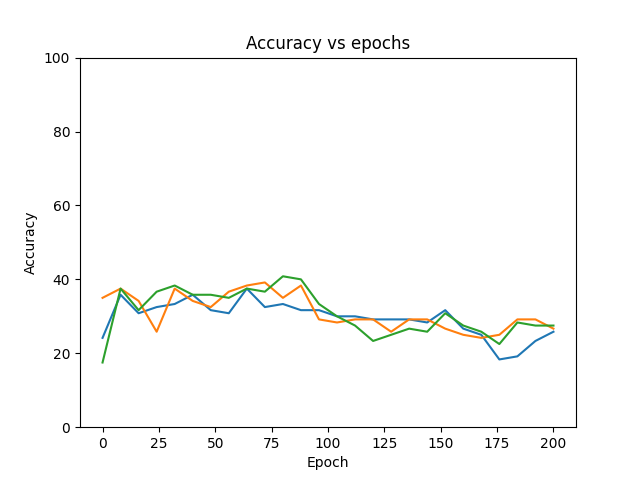
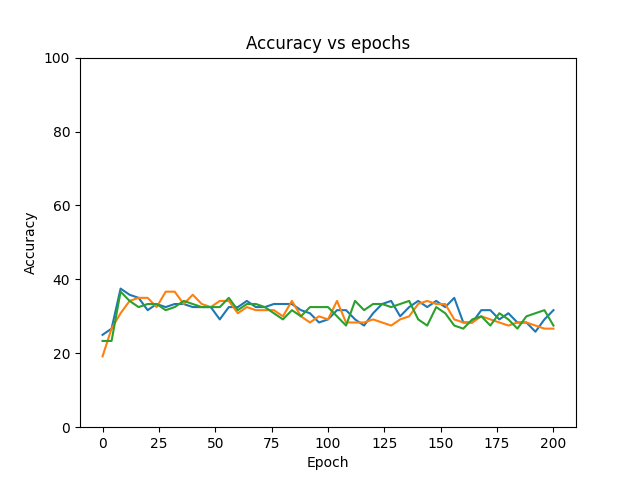
Reseed between experiments

Changed region(s): [[0.1562, 0.5625, 0.875, 0.75]]

diff --git a/main.py b/main.py
@@ -17,6 +17,7 @@ import numpy as np
 from tqdm import tqdm
 from torchaudio.transforms import MFCC
 
+
 class Experiment:
     def __init__(self, args: Namespace):
         self.args = args
@@ -47,10 +48,9 @@ class Experiment:
         self.train_dataset = KWSDataset(True, transform=transform)
         test_dataset = KWSDataset(False, transform=transform)
         self.loss_fn = torch.nn.CrossEntropyLoss()
-        self.accuracy_loss_experiment_samples = 600
-        self.fl_experiment_samples_per_batch = 8
-        self.fl_experiment_batches = 25
-
+        self.accuracy_loss_experiment_samples = 200
+        self.fl_experiment_samples_per_batch = 4
+        self.fl_experiment_batches = 50
 
         self.train_kwargs = {'batch_size': 1}
         test_kwargs = {'batch_size': 1000}
@@ -135,7 +135,7 @@ class Experiment:
         plt.savefig(f"plots/{filename}.png")
         print(f"Generated plots/{filename}.png")
 
-    def fl_experiment(self, fl: bool, quantization_bits: int|None, filename):
+    def fl_experiment(self, fl: bool, quantization_bits: int | None, filename):
         num_models = 3
         models, optimizers = self.init_models(num_models)
         samples_per_batch = self.fl_experiment_samples_per_batch
@@ -152,11 +152,19 @@ class Experiment:
 
             x.append((batch_index + 1) * samples_per_batch)
 
-            if not fl:
-                weights = [
-                    self.quantize_and_restore_weights(model.get_flat_weights(), quantization_bits) for model in models
-                ]
+            if fl:
+                if quantization_bits is not None:
+                    weights = [
+                        self.quantize_and_restore_weights(model.get_flat_weights(), quantization_bits) for model in
+                        models
+                    ]
+                else:
+                    weights = [
+                        model.get_flat_weights() for model in models
+                    ]
                 averaged_weights = np.sum(weights, axis=0) / len(models)
+                if quantization_bits is not None:
+                    averaged_weights = self.quantize_and_restore_weights(averaged_weights, quantization_bits)
                 for model in models:
                     model.set_flat_weights(averaged_weights)
 
@@ -175,25 +183,41 @@ def main():
     parser.add_argument('--lr', type=float, default=0.01, help='Learning rate')
     parser.add_argument('--momentum', type=float, default=0.9, help='Momentum')
     parser.add_argument('--no-accel', action='store_true', help='Disable accelerator')
-    parser.add_argument('--seed', type=int, default=1, help='Random seed')
+    parser.add_argument('--seed', type=int, default=2, help='Random seed')
     parser.add_argument('--batch-size', type=int, default=None, help='Weights batch size')
     args = parser.parse_args()
 
     random.seed(args.seed)
     np.random.seed(args.seed)
     torch.manual_seed(args.seed)
+    torch_state = torch.random.get_rng_state()
+    numpy_state = np.random.get_state()
+    random_state = random.getstate()
+    def reset_state():
+        torch.random.set_rng_state(torch_state)
+        np.random.set_state(numpy_state)
+        random.setstate(random_state)
 
     experiment = Experiment(args)
-    experiment.accuracy_loss_experiment('accuracies')
 
-    experiment.fl_experiment(True, None, 'accuracy_vs_epochs_no_fl')
-    experiment.fl_experiment(False, 32, 'accuracy_vs_epochs_32')
-    experiment.fl_experiment(False, 16, 'accuracy_vs_epochs_16')
-    experiment.fl_experiment(False, 8, 'accuracy_vs_epochs_8')
-    experiment.fl_experiment(False, 4, 'accuracy_vs_epochs_4')
-    experiment.fl_experiment(False, 2, 'accuracy_vs_epochs_2')
-    experiment.fl_experiment(False, 1, 'accuracy_vs_epochs_1')
+    experiment.accuracy_loss_experiment('accuracy_vs_quantization_bits')
 
+    reset_state()
+    experiment.fl_experiment(False, None, 'accuracy_vs_epochs_no_fl')
+    reset_state()
+    experiment.fl_experiment(True, None, 'accuracy_vs_epochs_no_quantization')
+    reset_state()
+    experiment.fl_experiment(True, 32, 'accuracy_vs_epochs_32')
+    reset_state()
+    experiment.fl_experiment(True, 16, 'accuracy_vs_epochs_16')
+    reset_state()
+    experiment.fl_experiment(True, 8, 'accuracy_vs_epochs_8')
+    reset_state()
+    experiment.fl_experiment(True, 4, 'accuracy_vs_epochs_4')
+    reset_state()
+    experiment.fl_experiment(True, 2, 'accuracy_vs_epochs_2')
+    reset_state()
+    experiment.fl_experiment(True, 1, 'accuracy_vs_epochs_1')
 
 
 if __name__ == '__main__':
